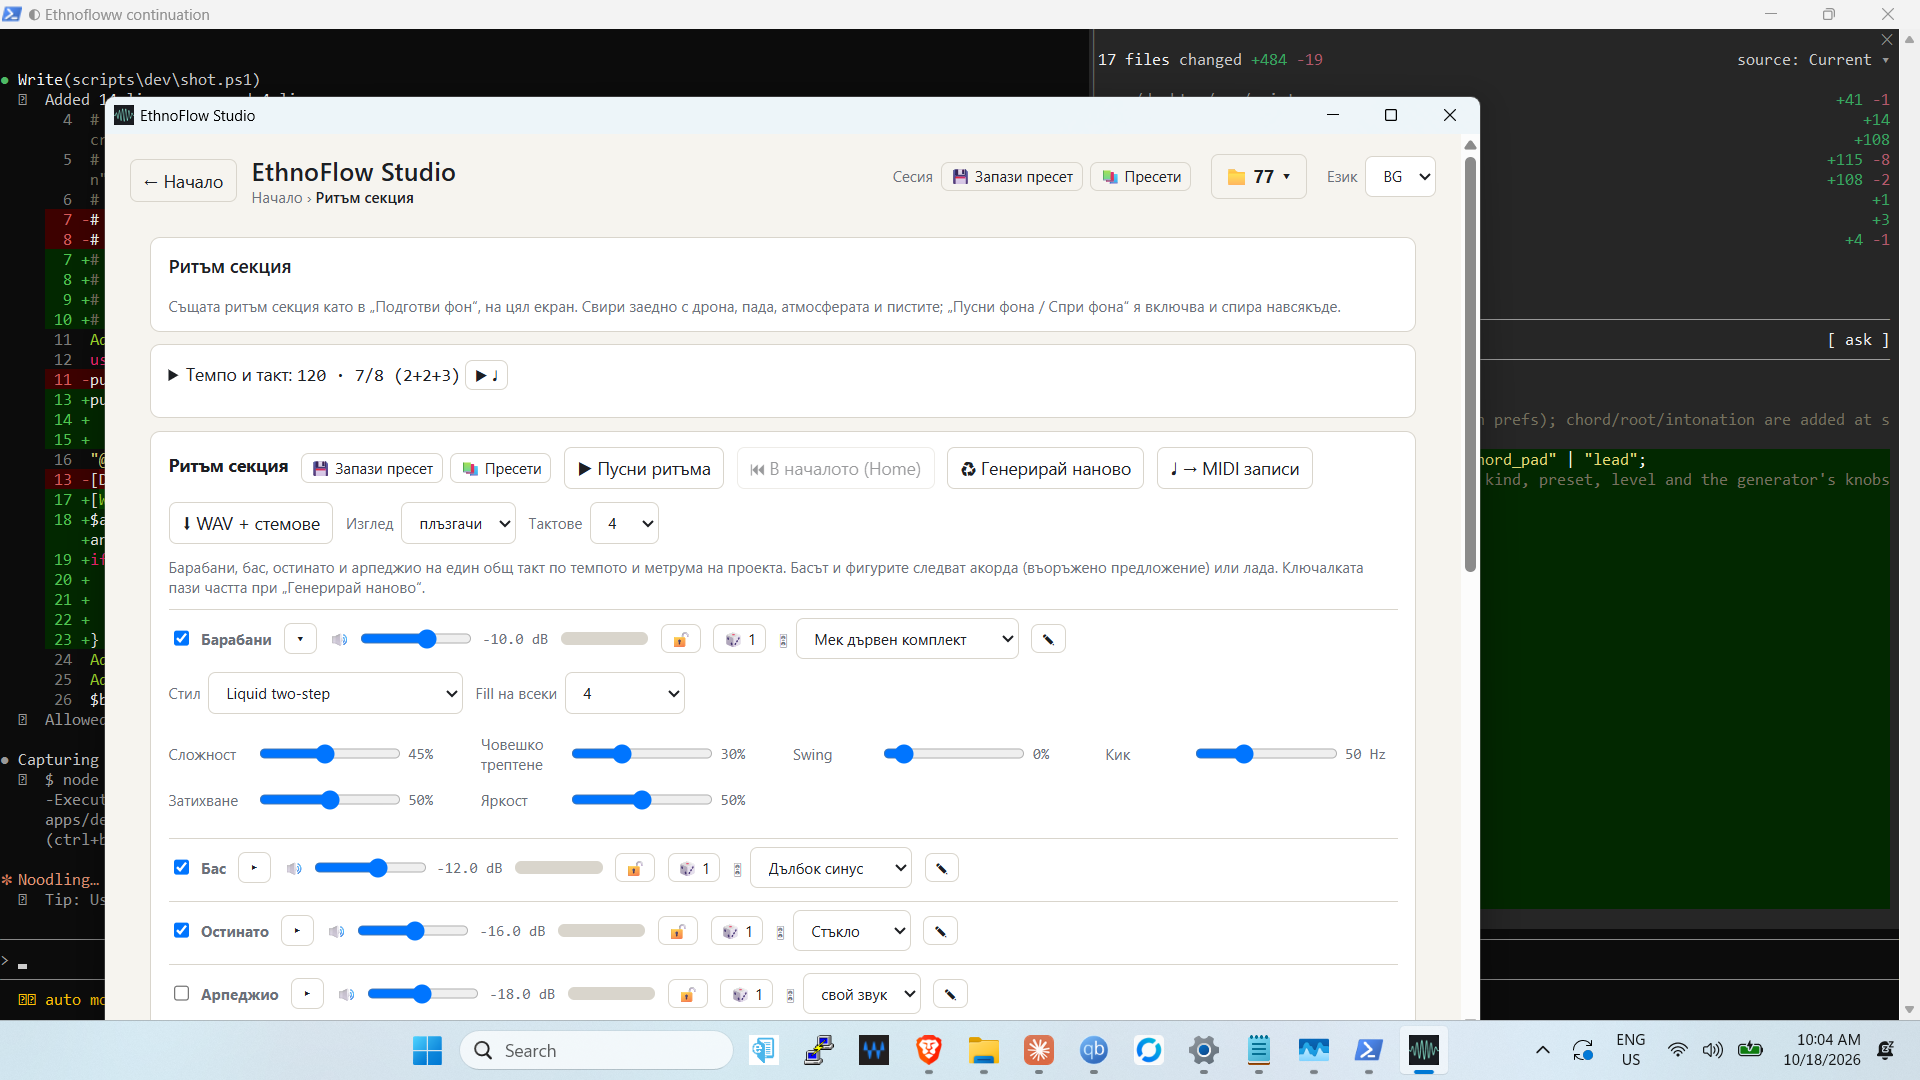
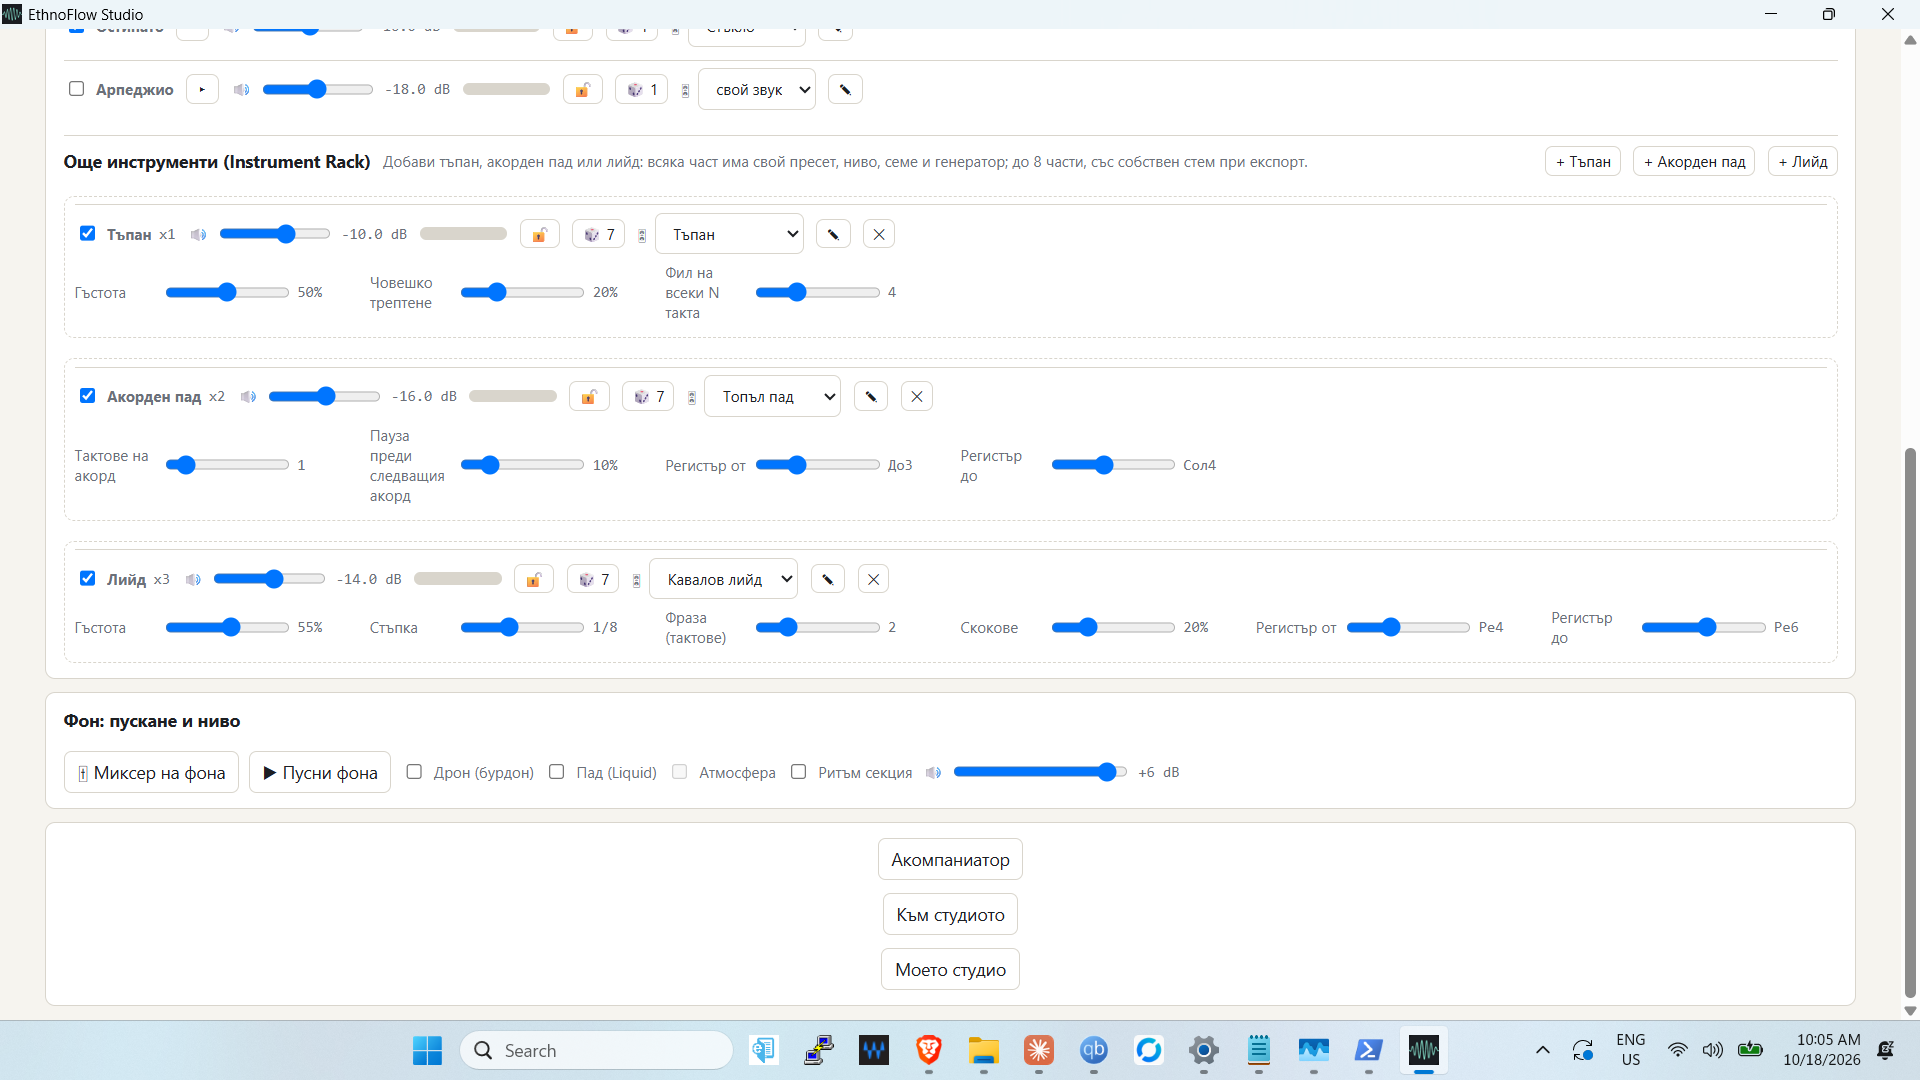
docs: report section for the Instrument Rack (tests, render D with six stems, deviation, what is missing); rack screenshot from the running app; screenshot script maximizes and can scroll (-Key)

diff --git a/docs/reports/2026-10-18_NIGHT_REPORT.md b/docs/reports/2026-10-18_NIGHT_REPORT.md
@@ -105,6 +105,24 @@
 | Граници | 4,64 s (medium 35 %) + три fine (20–30 %) | еднообразен 4-тактов цикъл → една средна граница по средата, разумно |
 | Секции | 0–4,64 „дроп“ 60 % (енергия 100 %, удари 100 %, бас 43 %), 4,64–11,16 „дроп“ 60 %, „повтаря #1“ | ролята идва от звука (плътен бас + удари), повторението е хванато |
 
+## Продължение след „да, съгласен съм“ (≈09:10–10:10): Instrument Rack (P1 R3)
+
+| Какво | Къде | Статус |
+|---|---|---|
+| Три нови инструмента в енджина: **Тъпан** (бум/ръб/призрак), **Акорден пад** (акорден патерн, 2 разстроени polyBLEP триона, SVF с движение), **Лийд** (моно, плъзгане, закъсняло вибрато, филтърна обвивка, сатурация) | `crates/audio-engine/src/graph/sources/{tapan,chordpad,lead}.rs` | TESTED (измерени: бум < 200 Hz / ръб > 1.5 kHz / настройката мести бума; акордните тонове присъстват и се отпускат; лийдът е моно, в тон, затихва) |
+| Чисти генератори: `generate_tapan` (бум на всяко начало на група в размера, ръб/призраци по гъстота, фил), `generate_chord_pad`, `generate_lead` (фрази, стъпково движение, моно) | `crates/music-core/src/extras.rs` | TESTED |
+| Графът: 16 → **24 слота**; 16..23 = частите на rack-а (вместо вложен rack-източник — отклонението е записано в плана) | `graph/mod.rs`, `docs/rhythm/IMPLEMENTATION_PLAN.md` | TESTED |
+| Пресети: `InstrumentVoice::{Tapan, ChordPad, Lead}` + 9 фабрични (tapan folk/deep/tight, pad warm/glass/dark, lead kaval/saw/hollow) | `crates/project/src/forge.rs` | TESTED (≥ 3 на категория, валидиране, round-trip) |
+| Ритъм секция: `extras` (до 8 части: вид, пресет, ниво, семе, 🔒, копчета на генератора), live sync с подмяна на патерна на място, офлайн рендер и експорт на песента със стем на част, статус с пикове, „Генерирай наново“ | `rhythm_cmds.rs`, `song_export_cmds.rs`, `bus_cmds.rs` | TESTED (нов shell тест: 3 стема, пресетът променя звука, лоши id-та се отхвърлят) |
+| Дизайнер: копчета/вълни/нива за трите вида, аудиция и WAV, „Добави в ритъма като нова част“ | `forge_cmds.rs`, `InstrumentDesigner.tsx` | FUNCTIONAL |
+| Ритъм панел: ред „Още инструменти“ (+ Тъпан / + Акорден пад / + Лийд), ред на част с ниво/метър/🔒/🎲/🎛/✎/✕ и плъзгачи | `RhythmPanel.tsx`, `extraParts.ts` (+ vitest) | FUNCTIONAL (снимка `2026-10-18-rack.png`) |
+
+**Тестове:** engine 143 + music-core 64 (+ интеграционни), project 29 + 12, desktop 21, clippy чист навсякъде, typecheck OK, vitest 35.
+
+**Звуково доказателство:** `qa/renders/2026-10-18/rhythm-D-rack-ethno-tapan-pad-lead-7-8-120.wav` (7/8, 120 BPM, D дорийски): микс peak 0.334; стемове — tapan-1 (−14.9 dBFS peak, 1298 ZC/s), chordpad-2 (−23.3, 1136), lead-3 (−25.5, 1022), заедно с drums/bass/ostinato. Живата секция беше пусната за 4 s през моста за проверка на синхронизацията (виж пиковете в лога на сесията).
+
+**Липсващо / опростено:** секвенсор по стъпки и kit-миксер от R3 — NOT STARTED; дарбука, дайре, клавиши — NOT STARTED; rack-ът е с фиксирани слотове (макс. 8 части), не вложен източник.
+
 ## Известни проблеми (допълнение, сутрин)
 
 - (средно) **Относителни ладове**: тоналността от средна хрома не различава D дорийски от
